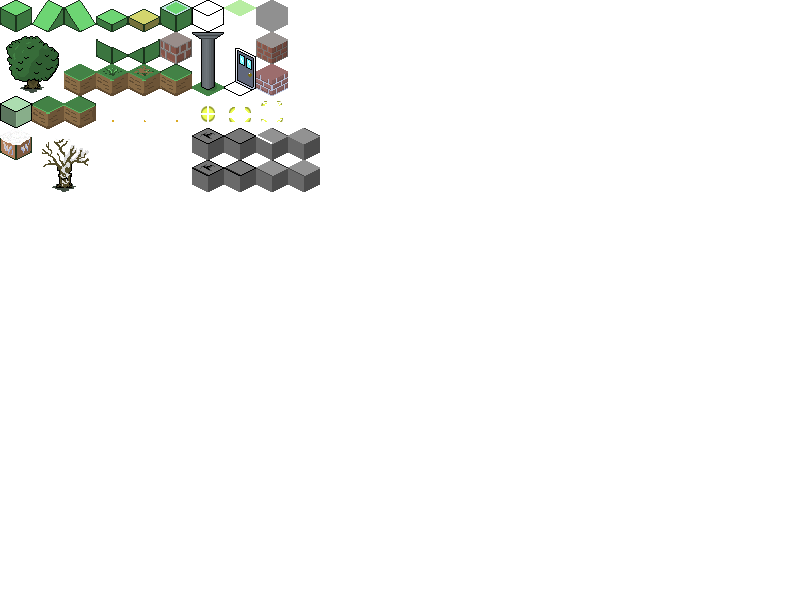
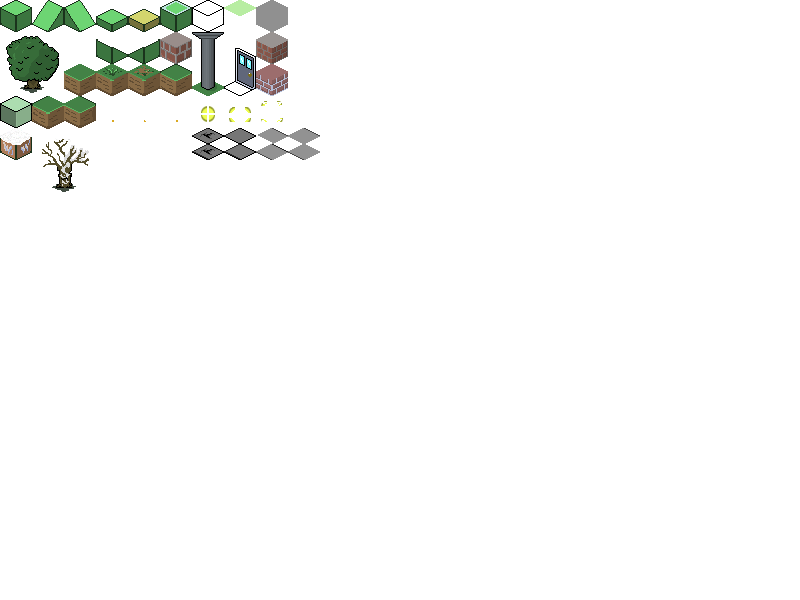
Add single tile

Changed region(s): [[0.2188, 0.21, 0.4062, 0.33]]

diff --git a/src/components/TileComponent.ts b/src/components/TileComponent.ts
@@ -243,13 +243,20 @@ export abstract class TileComponent extends Component {
    * Updates the sprite's position
    */
   protected updateSpritePosition() {
+    let halfTile = false;
+    const spriteData = this.eng.assetManager.getImageFrom(this.spriteId);
+    if (spriteData) {
+      halfTile = spriteData.tileData.loc[3] === 16;
+    }
+
     // Get the screen depth using the tile index not position of this tile
     this._screenDepthPos = this.eng.tileHelper.toScreenLoc(
       this._tileIndex.x,
       this._tileIndex.y,
       this._tileIndex.z,
       false,
-      this._screenDepthPos
+      this._screenDepthPos,
+      halfTile
     );
 
     // Get the screen position of this tile using the position
@@ -258,7 +265,8 @@ export abstract class TileComponent extends Component {
       this._tilePosition.y,
       this._tilePosition.z,
       false,
-      this._screenPosition
+      this._screenPosition,
+      halfTile
     );
 
     // move the sprite if there is one. some tiles like empty

diff --git a/src/utilities/TileHelper.ts b/src/utilities/TileHelper.ts
@@ -118,16 +118,28 @@ export class TileHelper {
     return normalizedDepth;
   }
 
-  toScreenLoc(i: number, j: number, k: number, invertYAxis: boolean = false, target?: vec3): vec3 {
+  /**
+   * Converts tile coordinates to screen coordinates
+   * @param i
+   * @param j
+   * @param k
+   * @param invertYAxis
+   * @param target
+   * @param halfTile is the tile a 16 px tile or a full isometric 32px cube
+   * @returns
+   */
+  toScreenLoc(i: number, j: number, k: number, invertYAxis: boolean = false, target?: vec3, halfTile?: boolean): vec3 {
     if (!target) {
       target = new vec3();
     }
     const cell = new vec3([i, j, k]);
     if (invertYAxis) {
       this._toScreenFlipped.multiplyVec3(cell, target);
+      target.y -= halfTile ? (invertYAxis ? 32 : -32) : 0;
       return target;
     } else {
       this._toScreen.multiplyVec3(cell, target);
+      target.y -= halfTile ? (invertYAxis ? 32 : -32) : 0;
       return target;
     }
   }

diff --git a/src/editor/CanvasRenderer.ts b/src/editor/CanvasRenderer.ts
@@ -162,7 +162,7 @@ export class CanvasRenderer extends EditorComponent {
    * @param top
    */
   private drawTile(data: SelectTileBrowserData, i: number, j: number, k: number): void {
-    const screen = this.eng.tileHelper.toScreenLoc(i + 0.5, j + 0.5, k, true);
+    const screen = this.eng.tileHelper.toScreenLoc(i + 0.5, j + 0.5, k, true, undefined, data.srcHeight === 16);
     const img = data.image;
     const x = data.sx;
     const y = data.sy;

diff --git a/src/systems/AssetManager.ts b/src/systems/AssetManager.ts
@@ -94,6 +94,10 @@ export class AssetManager extends Component {
    * @returns
    */
   getImageFrom(id: string): ISpriteDataAndImage {
+    // might be an empty tile
+    if (!id) {
+      return null;
+    }
     // check the tileData
     let spriteData = TileSheetData as ISpriteData;
     let index = 0;
